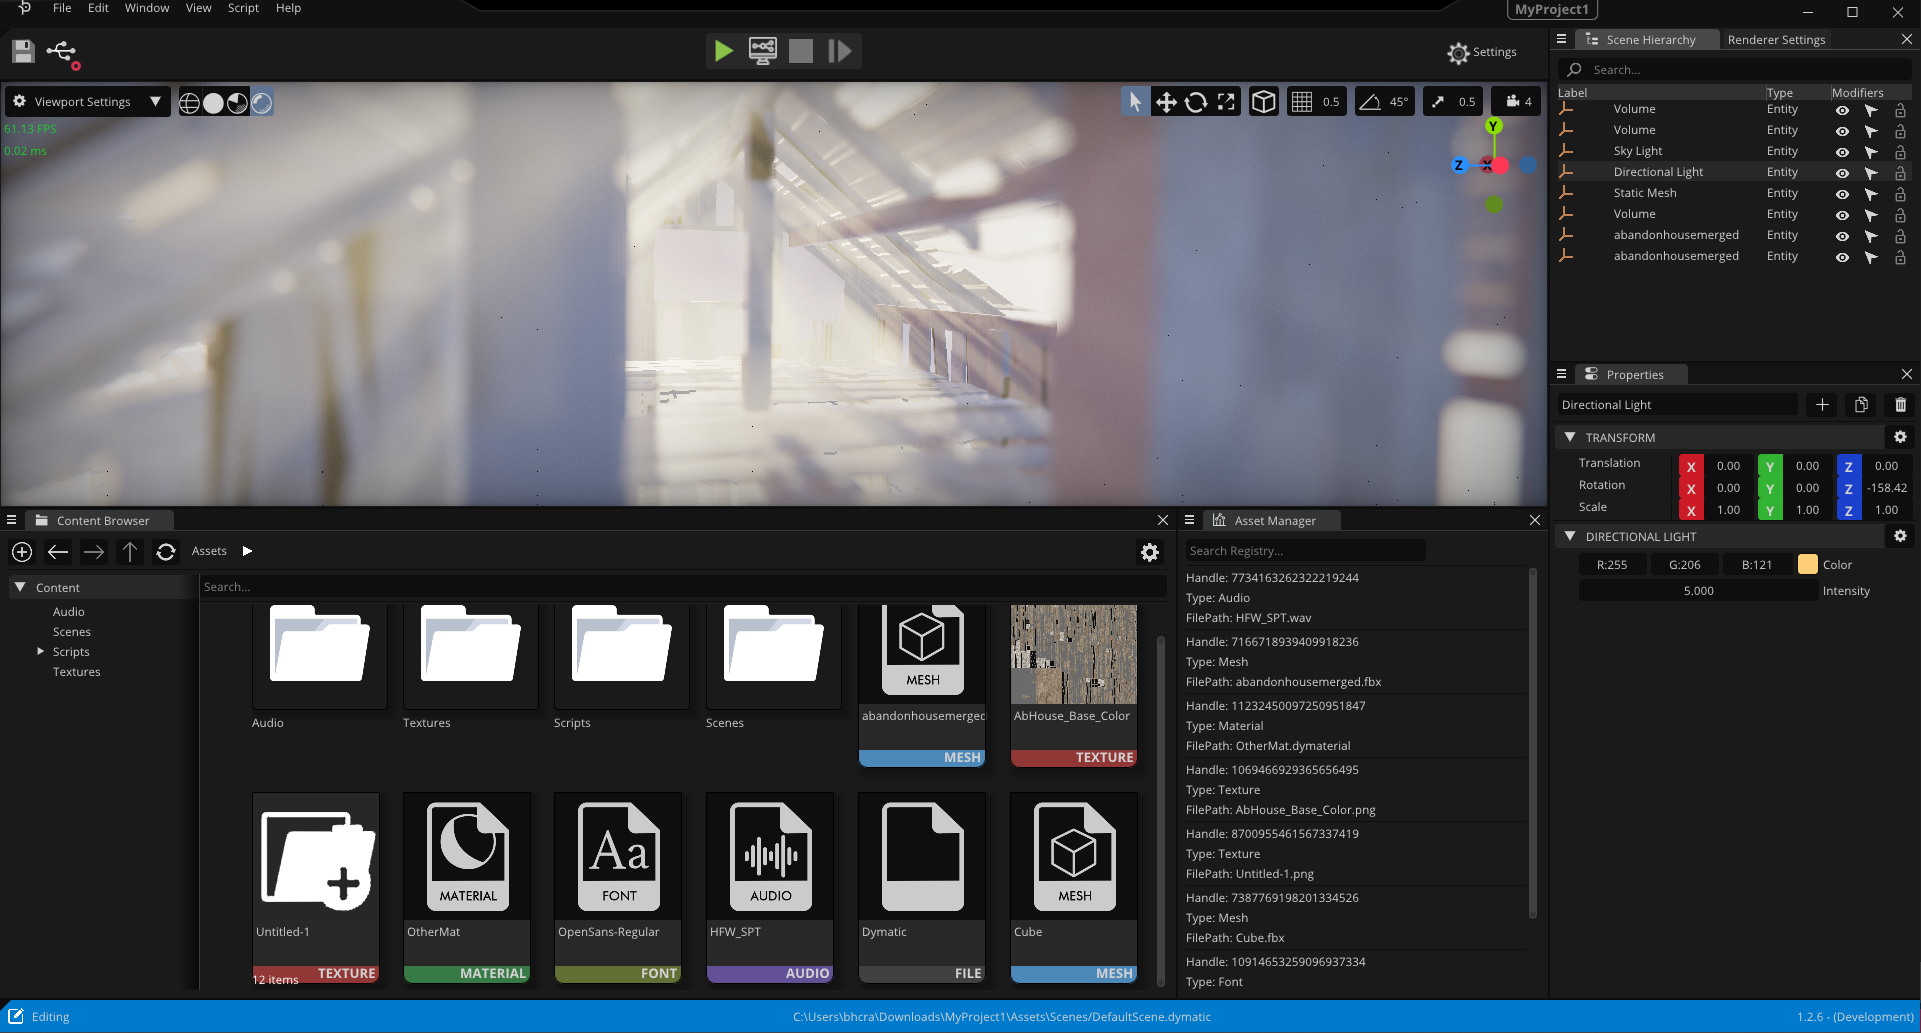
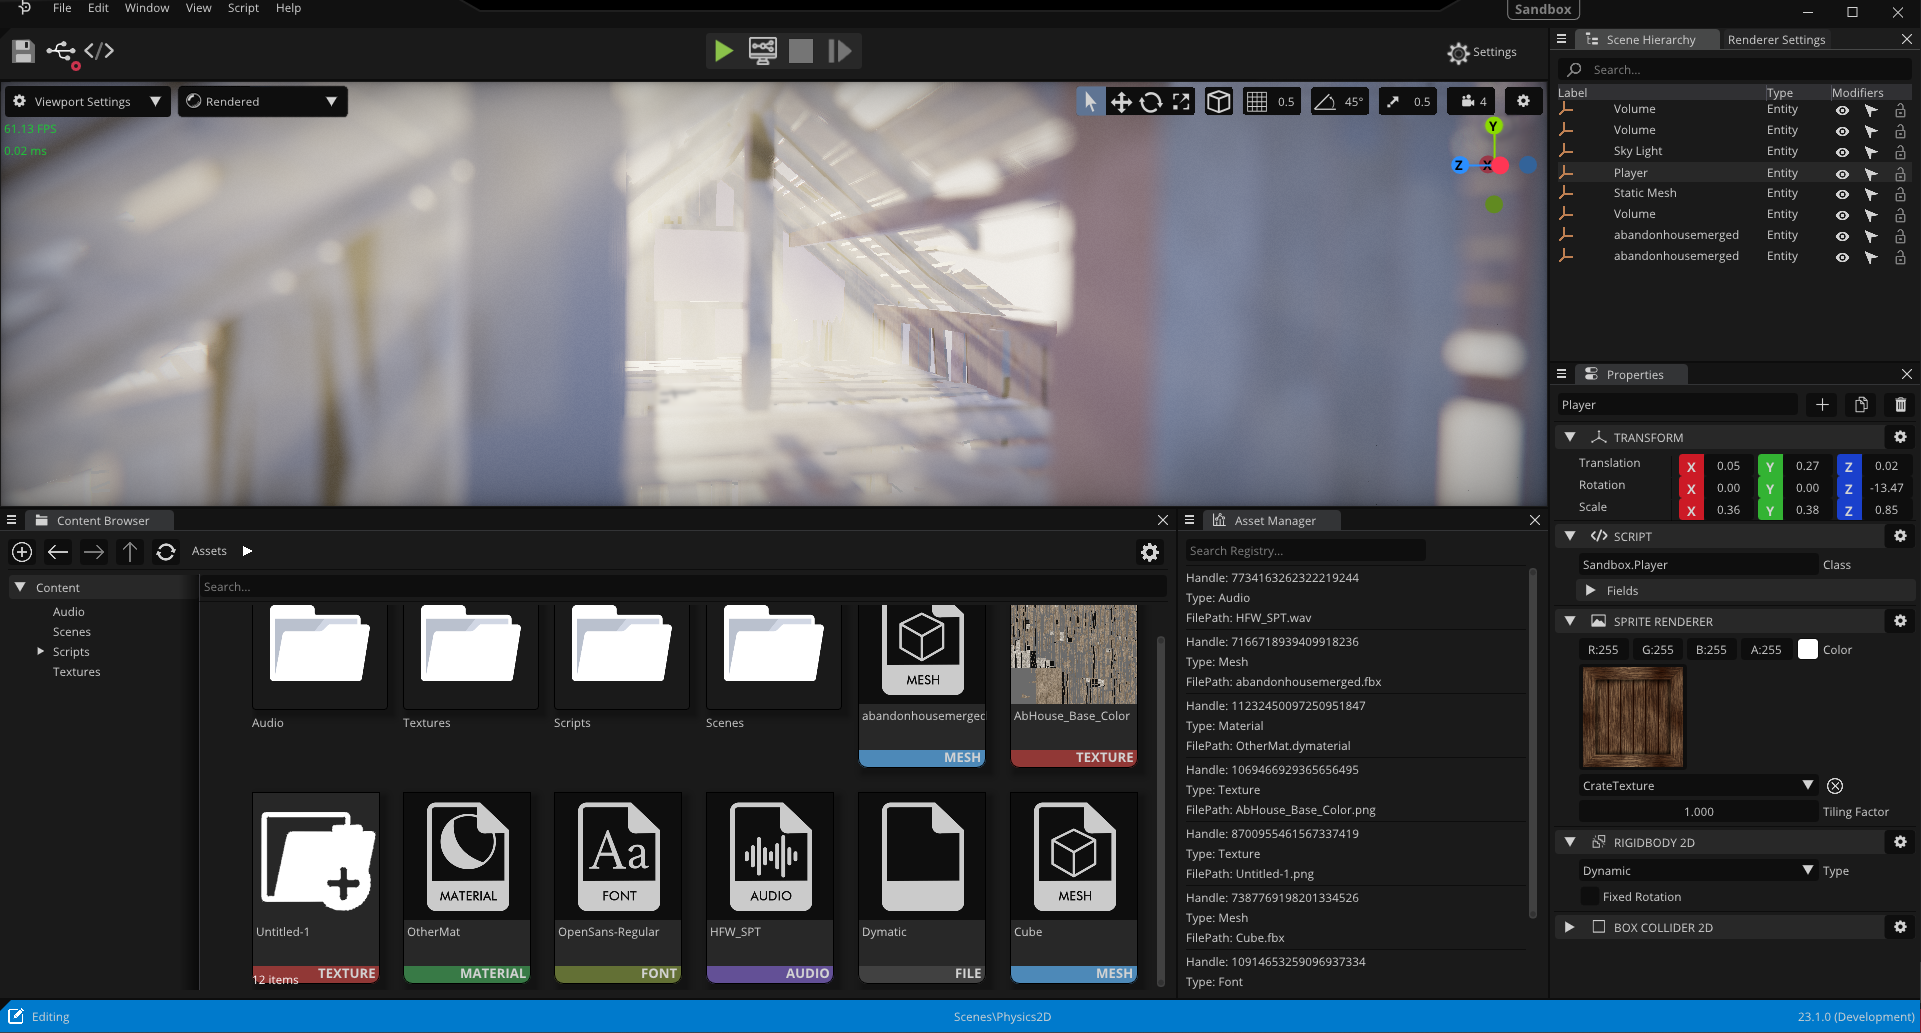
Updated to version 23.1.0

diff --git a/api/version.html b/api/version.html
@@ -1,1 +1,1 @@
-V1.2.6
+23.1.0
